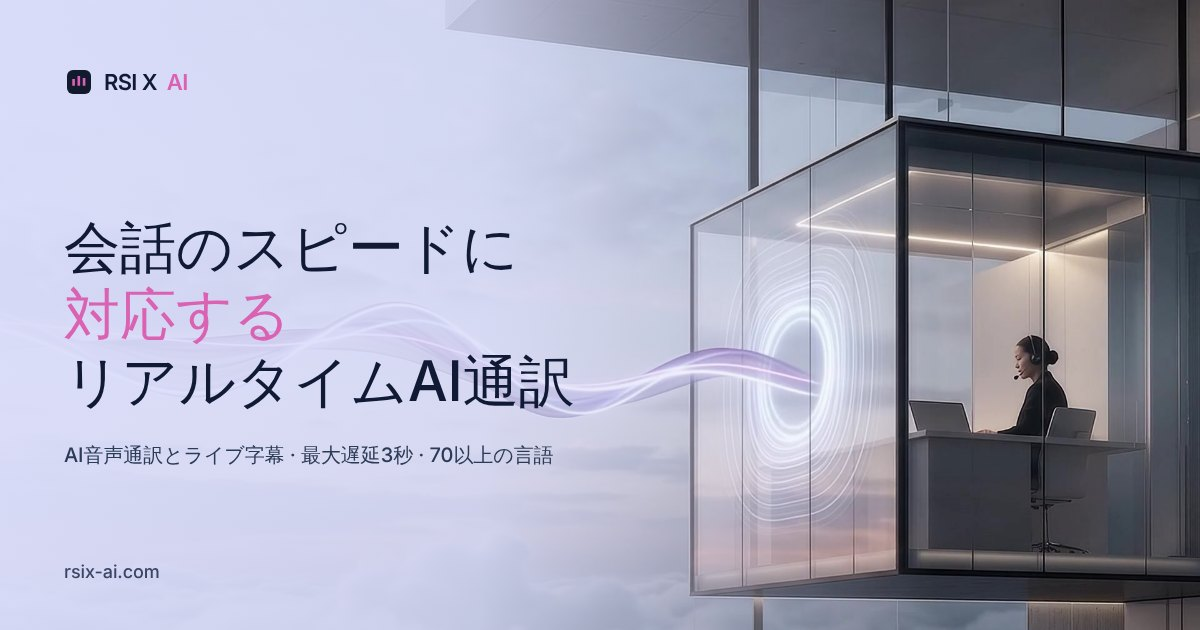
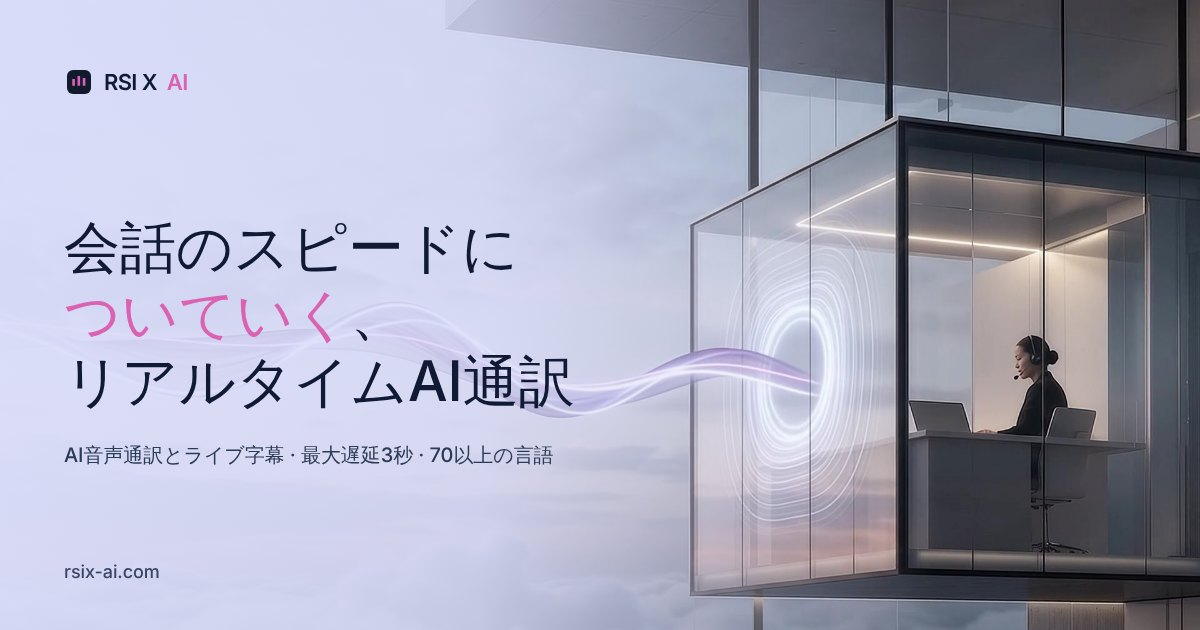
JP: native review fixes - 翻訳 to 通訳/訳, hero ついていく, 同程度 latency, wording of use cases, drop FAQ lede, リアルタイム通訳; refresh JA social card
Claude-Session: https://claude.ai/code/session_01XqwZ4HPfeyBXBKJXVnt9tS

Changed region(s): [[0.0617, 0.4524, 0.2775, 0.5429]]

diff --git a/jp/index.html b/jp/index.html
@@ -15,7 +15,7 @@
 <meta name="theme-color" content="#d3d8f8">
 <meta property="og:type" content="website">
 <meta property="og:site_name" content="RSI X AI">
-<meta property="og:title" content="RSI X AI - 会話のスピードに対応するリアルタイムAI通訳">
+<meta property="og:title" content="RSI X AI - 会話のスピードについていく、リアルタイムAI通訳">
 <meta property="og:description" content="AI音声通訳とライブ字幕をひとつの軽量ツールで。最大遅延3秒、70以上の言語、あらゆる会議プラットフォームに対応。">
 <meta property="og:url" content="https://rsix-ai.com/jp/">
 <meta property="og:image" content="https://rsix-ai.com/img/og-image-ja.jpg">
@@ -25,7 +25,7 @@
 <meta property="og:locale" content="ja_JP">
 <meta property="og:locale:alternate" content="en_US">
 <meta name="twitter:card" content="summary_large_image">
-<meta name="twitter:title" content="RSI X AI - 会話のスピードに対応するリアルタイムAI通訳">
+<meta name="twitter:title" content="RSI X AI - 会話のスピードについていく、リアルタイムAI通訳">
 <meta name="twitter:description" content="AI音声通訳とライブ字幕をひとつの軽量ツールで。最大遅延3秒、70以上の言語、あらゆる会議プラットフォームに対応。">
 <meta name="twitter:image" content="https://rsix-ai.com/img/og-image-ja.jpg">
 <link rel="icon" href="../img/favicon-32.png" sizes="32x32" type="image/png">
@@ -94,7 +94,7 @@ if (!location.hash) window.scrollTo({ top: 0, left: 0, behavior: 'instant' });
 <header class="hdr" id="hdr">
   <a href="#top" class="logo" aria-label="RSI X AI ホーム">
     <span class="logo__mark" aria-hidden="true"><i></i><i></i><i></i></span>
-    <span class="logo__text">RSI X <i>AI</i><small>ライブ通訳</small></span>
+    <span class="logo__text">RSI X <i>AI</i><small>リアルタイム通訳</small></span>
   </a>
   <button class="hdr__burger" type="button" aria-label="メニューを開く" aria-expanded="false" aria-controls="hdr-nav"><i></i><i></i></button>
   <nav class="hdr__nav" id="hdr-nav" aria-label="メイン">
@@ -130,9 +130,9 @@ if (!location.hash) window.scrollTo({ top: 0, left: 0, behavior: 'instant' });
   <img class="hero__bg hero__fg" src="../img/rsi-hero-booth.webp" alt="" aria-hidden="true" width="2000" height="1185"><!-- booth glass on top of the wave -->
   <div class="hero__veil" aria-hidden="true"></div>
   <div class="hero__copy">
-    <p class="eyebrow"><span>AIライブ</span>通訳・字幕</p>
+    <p class="eyebrow"><span>AIリアルタイム</span>通訳・字幕</p>
     <!-- Option A headline: open the page with ?h=a -->
-    <h1 class="hero__title" data-headline>会話のスピードに<em>対応する</em>リアルタイムAI通訳</h1>
+    <h1 class="hero__title" data-headline>会話のスピードに<em>ついていく</em>、リアルタイムAI通訳</h1>
     <p class="hero__lead">RSI X AIは、最大遅延3秒のAI音声通訳とライブ字幕を、ひとつの軽量ツールで提供します。プロの通訳者がいない会議やイベントにも、通訳者のリアルタイム支援にも。</p>
     <div class="hero__cta">
       <a href="#contact" class="btn btn--hero"><span>イベントについて相談する</span><i aria-hidden="true"><svg viewBox="0 0 16 14" width="16" height="14"><path d="M1 7h13M8.5 1.5 14 7l-5.5 5.5" fill="none" stroke="currentColor" stroke-width="1.4"/></svg></i></a>
@@ -143,11 +143,11 @@ if (!location.hash) window.scrollTo({ top: 0, left: 0, behavior: 'instant' });
   <div class="hero__foot">
     <div class="hero__stat">
       <strong>3<small>s</small></strong>
-      <p><b>最大遅延</b><br>人間の通訳と同等</p>
+      <p><b>最大遅延</b><br>人間の通訳と同程度</p>
     </div>
     <div class="hero__stat">
       <strong>70<small>+</small></strong>
-      <p><b>対応言語</b><br>ライブ通訳・字幕</p>
+      <p><b>対応言語</b><br>リアルタイム通訳・字幕</p>
     </div>
   </div>
 </section>
@@ -159,12 +159,12 @@ if (!location.hash) window.scrollTo({ top: 0, left: 0, behavior: 'instant' });
     <div></div>
     <div>
       <p class="lede"><b>AI通訳の課題を</b><em>解決するために</em></p>
-      <p class="hang">AI通訳では、スピードか意味か、どちらかを選ばされがちです。翻訳が遅すぎれば、会話はもう先へ進んでいます。速くても意味が失われれば、別の問題が生まれます。</p>
+      <p class="hang">AI通訳では、スピードか意味か、どちらかを選ばされがちです。訳が届くのが遅すぎれば、会話はもう先へ進んでいます。速くても意味が失われれば、別の問題が生まれます。</p>
       <p class="hang">RSI X AIはその両方を大切にしています。<b>ついていける速さ、理解できる正確さ、そして邪魔にならない軽さ。</b></p>
       <ol class="rows">
         <li>
           <svg class="ico ico--brand" viewBox="0 0 24 26" aria-hidden="true"><path d="M8 18H0V26H8V18Z"/><path d="M8.00085 18H16.0009V26L8.00085 18Z"/><path d="M24.0009 18H16.0009V26H24.0009V18Z"/><path d="M8.00122 18L8.00122 9L0.0012207 9L8.00122 18Z"/><path d="M8.00122 0V9H0.0012207L0.0012207 0H8.00122Z"/><path d="M24 10H16V18H24V10Z"/></svg>
-          <div><b>遅すぎる</b><span>翻訳に30秒かかれば、話し手はもう次の話題に移っています。</span></div>
+          <div><b>遅すぎる</b><span>訳出に30秒かかれば、話し手はもう次の話題に移っています。</span></div>
         </li>
         <li>
           <svg class="ico ico--brand" viewBox="0 0 24 25" aria-hidden="true"><path d="M8 18.0001H0V25.0001H8V18.0001Z"/><path d="M24 11L16 11L16 18L24 11Z"/><path d="M8 11H16V18H8V11Z"/><path d="M8 18L8 9L9.53674e-07 9L8 18Z"/><path d="M8 0V9H0L0 0H8Z"/></svg>
@@ -190,7 +190,7 @@ if (!location.hash) window.scrollTo({ top: 0, left: 0, behavior: 'instant' });
     </figure>
     <div>
       <p class="lede"><b>音声通訳とライブ字幕を、</b><em>ひとつのツールで</em></p>
-      <p class="hang">RSI X AIは、<b>AIによる音声通訳と、同期したライブ字幕</b>をひとつの体験にまとめました。シンプルなドロップダウンで言語を選ぶだけで、リアルタイムに聞きながら読むことができます。</p>
+      <p class="hang">RSI X AIは、<b>AIによる音声通訳と、同期したライブ字幕</b>をひとつのツールにまとめました。シンプルなドロップダウンで言語を選ぶだけで、リアルタイムに聞きながら読むことができます。</p>
       <p class="hang">字幕はあえて一度に一言語だけを表示します。利用できるすべての言語で画面が埋まることなく、すっきりと見やすいままです。</p>
 
       <!-- mini product mock: a macOS-style listener window (custom popup so it looks the same in every browser) -->
@@ -230,14 +230,14 @@ if (!location.hash) window.scrollTo({ top: 0, left: 0, behavior: 'instant' });
     <div></div>
     <div>
       <p class="lede"><b>数値で示す</b><em>スピードと精度</em></p>
-      <p class="hang">RSI X AIは、社内のエンドツーエンド計測で<b>最大遅延3秒</b>を記録しています。これは人間の通訳と同等です。音声は100ミリ秒単位で処理され、翻訳をできる限りリアルタイムに近づけます。</p>
+      <p class="hang">RSI X AIは、社内のエンドツーエンド計測で<b>最大遅延3秒</b>を記録しています。これは人による同時通訳と同程度の遅延です。音声は100ミリ秒単位で処理され、通訳・字幕をできる限りリアルタイムに近づけます。</p>
     </div>
   </div>
   <ol class="perf" aria-label="主な数値">
     <li class="perf__row">
       <span class="perf__n">01</span>
       <h3 class="perf__title"><span class="perf__num">3<small>秒</small></span><span class="perf__label">最大遅延</span></h3>
-      <p class="perf__body">社内のエンドツーエンド計測による値で、人間の通訳と同等です。</p>
+      <p class="perf__body">社内のエンドツーエンド計測による値で、人による同時通訳と同程度の遅延です。</p>
       <ul class="perf__tags"><li>エンドツーエンド</li><li>社内テスト</li></ul>
     </li>
     <li class="perf__row">
@@ -249,7 +249,7 @@ if (!location.hash) window.scrollTo({ top: 0, left: 0, behavior: 'instant' });
     <li class="perf__row">
       <span class="perf__n">03</span>
       <h3 class="perf__title"><span class="perf__num">70<small>+</small></span><span class="perf__label">対応言語</span></h3>
-      <p class="perf__body">ライブ通訳と字幕に対応し、画面には一度に一言語を表示します。</p>
+      <p class="perf__body">リアルタイム通訳と字幕に対応し、画面には一度に一言語を表示します。</p>
       <ul class="perf__tags"><li>音声</li><li>字幕</li></ul>
     </li>
     <li class="perf__row">
@@ -286,7 +286,7 @@ if (!location.hash) window.scrollTo({ top: 0, left: 0, behavior: 'instant' });
     <li class="flow__step flow__step--core" tabindex="0">
       <span class="flow__n">02 / RSI X AI</span>
       <svg class="ico ico--brand ico--flow" viewBox="0 0 27 21" aria-hidden="true"><path d="M0 10.5L13.5 10.5L13.5 0L0 10.5Z"/><path d="M27 10.5H13.5V0H27V10.5Z"/><path d="M10.5 21V10.5L0 10.5V21H10.5Z"/></svg>
-      <p>音声を聞き取り、処理し、リアルタイムで翻訳します。</p>
+      <p>音声を聞き取り、処理し、リアルタイムで訳します。</p>
     </li>
     <li class="flow__step" tabindex="0">
       <span class="flow__n">03 / 参加者</span>
@@ -353,7 +353,7 @@ if (!location.hash) window.scrollTo({ top: 0, left: 0, behavior: 'instant' });
         </svg>
       </figure>
       <h3><b>単独で</b></h3>
-      <p>機密性の高くない会議、社内ブリーフィング、本格的な通訳ブースまでは必要ないイベントに。</p>
+      <p>重要度がそれほど高くない会議、社内ブリーフィング、本格的な通訳ブースまでは必要ないイベントに。</p>
       <span class="mode__n">01</span>
     </article>
     <article class="mode">
@@ -368,7 +368,7 @@ if (!location.hash) window.scrollTo({ top: 0, left: 0, behavior: 'instant' });
         </svg>
       </figure>
       <h3><b>通訳者と一緒に</b></h3>
-      <p>プロの通訳者のリアルタイム支援として。専門用語や数字、固有名詞を拾い上げ、主導権は通訳者が保ちます。</p>
+      <p>プロの通訳者のリアルタイム支援として。専門用語や数字、固有名詞を拾い上げ、判断はあくまでも通訳者が担います。</p>
       <span class="mode__n">02</span>
     </article>
     <article class="mode">
@@ -411,7 +411,6 @@ if (!location.hash) window.scrollTo({ top: 0, left: 0, behavior: 'instant' });
   <h2 class="sec__title">よくある質問<span>08</span></h2>
   <div class="split split--faq">
     <aside class="faq__aside">
-      <p class="lede"><b>お問い合わせの前に、</b><em>率直な答えを</em></p>
       <div class="faq__card">
         <p class="faq__card-t">まだご質問がありますか？</p>
         <p>イベントの内容、言語、参加者について教えてください。あとはこちらでお答えします。</p>
@@ -425,7 +424,7 @@ if (!location.hash) window.scrollTo({ top: 0, left: 0, behavior: 'instant' });
         </details>
         <details class="qa">
           <summary><span class="qa__n">02</span><span class="qa__q">オンライン会議にはどのように組み込めますか？</span><span class="qa__ico" aria-hidden="true"></span></summary>
-          <div class="qa__a"><p>RSI X AIは、Zoom、Microsoft Teams、Google Meetなどの会議・イベントプラットフォームの音声や映像を聞き取り、リアルタイムで処理して、翻訳結果をRSI X AIのアプリまたはウェブページで届けます。</p></div>
+          <div class="qa__a"><p>RSI X AIは、Zoom、Microsoft Teams、Google Meetなどの会議・イベントプラットフォームの音声や映像を聞き取り、リアルタイムで処理して、通訳音声と字幕をRSI X AIアプリまたはWebページで届けます。</p></div>
         </details>
         <details class="qa">
           <summary><span class="qa__n">03</span><span class="qa__q">プラグインのインストールや、会議へのボット追加は必要ですか？</span><span class="qa__ico" aria-hidden="true"></span></summary>
@@ -433,11 +432,11 @@ if (!location.hash) window.scrollTo({ top: 0, left: 0, behavior: 'instant' });
         </details>
         <details class="qa">
           <summary><span class="qa__n">04</span><span class="qa__q">どのくらい速いですか？</span><span class="qa__ico" aria-hidden="true"></span></summary>
-          <div class="qa__a"><p>社内のエンドツーエンド計測では最大遅延3秒で、人間の通訳と同等です。音声は100ミリ秒単位で処理され、翻訳をリアルタイムに近い状態に保ちます。</p></div>
+          <div class="qa__a"><p>社内のエンドツーエンド計測では最大遅延3秒で、人による同時通訳と同程度の遅延です。音声は100ミリ秒単位で処理され、通訳・字幕をリアルタイムに近い状態に保ちます。</p></div>
         </details>
         <details class="qa">
           <summary><span class="qa__n">05</span><span class="qa__q">いくつの言語に対応していますか？</span><span class="qa__ico" aria-hidden="true"></span></summary>
-          <div class="qa__a"><p>RSI X AIは、ライブ通訳と字幕で70以上の言語に対応しています。利用できる言語は、選択したモードやイベントの設定によって異なる場合があります。</p></div>
+          <div class="qa__a"><p>RSI X AIは、リアルタイム通訳と字幕で70以上の言語に対応しています。利用できる言語は、選択したモードやイベントの設定によって異なる場合があります。</p></div>
         </details>
         <details class="qa">
           <summary><span class="qa__n">06</span><span class="qa__q">どのくらいの通信帯域が必要ですか？</span><span class="qa__ico" aria-hidden="true"></span></summary>
@@ -476,7 +475,7 @@ if (!location.hash) window.scrollTo({ top: 0, left: 0, behavior: 'instant' });
         <span class="logo__mark" aria-hidden="true"><i></i><i></i><i></i></span>
         <span class="logo__text">RSI X <i>AI</i></span>
       </a>
-      <p class="ftr__about">多言語の会議やイベントのための、AIライブ通訳と字幕。RSI Exchangeのチームがつくりました。</p>
+      <p class="ftr__about">多言語の会議やイベントのための、AIリアルタイム通訳と字幕。RSI Exchangeのチームがつくりました。</p>
 
       <form class="form" id="form">
         <input type="checkbox" name="botcheck" class="form__trap" tabindex="-1" autocomplete="off" aria-hidden="true">
